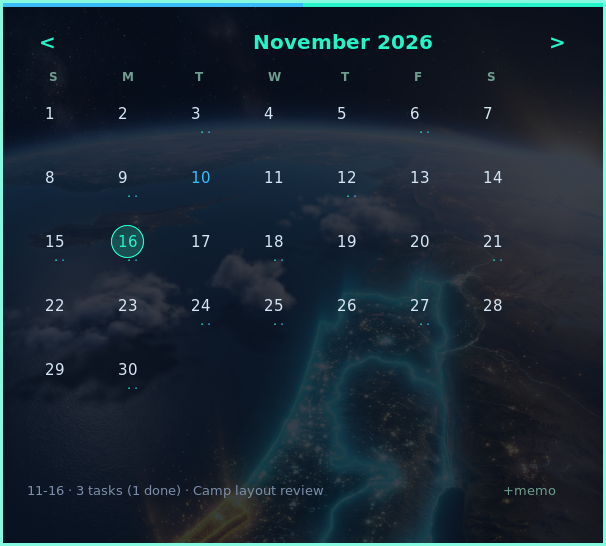
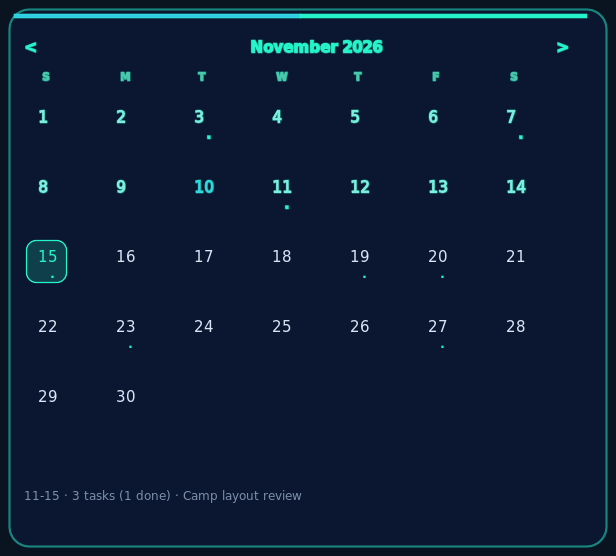
fix(widgets): clean rounded corners and no photo background
The panel used a <layer-list> with a <bitmap> layer, and a bitmap is not
clipped by <corners>, so the photo's edges poked out of the four rounded
corners as small triangular spurs.

- Widget backgrounds are now a single translucent gradient <shape>: fully
  rounded, still see-through (same WidgetStyle opacity variants).
- Dropped the bitmap layer and deleted widget_bg_image.jpg.
- Added android:clipToOutline to the four widget roots so no child can draw
  past the rounded outline.
- Removed the borderless ripple backgrounds that could also spill outside
  the corners.
- Rebuilt the four widget previews without the photo.

diff --git a/README.md b/README.md
@@ -19,7 +19,8 @@
 
 ## المزايا
 
-- **خلفية منحوتة** — صورة الأرض ليلاً مدمجة مع ألوان التطبيق (شفافة فوقها البطاقات).
+- **خلفية منحوتة في التطبيق** — صورة الأرض ليلاً مدمجة مع ألوان التطبيق (شفافة فوقها البطاقات).
+- **الودجت بلا صورة خلفية** — لوح كحلي شفاف بزوايا مستديرة نظيفة (بلا أي زوائد).
 - **تقويم داخلي** — شبكة شهر بنقاط المهام والميمو، بلا حزم خارجية.
 - **مهام متكررة بنافذة** — الخطة المسبقة 15 نوفمبر → 13 ديسمبر تظهر في الودجت والتقويم.
 - **ودجت التقويم** — تقويم شهري كامل على الشاشة الرئيسية.
